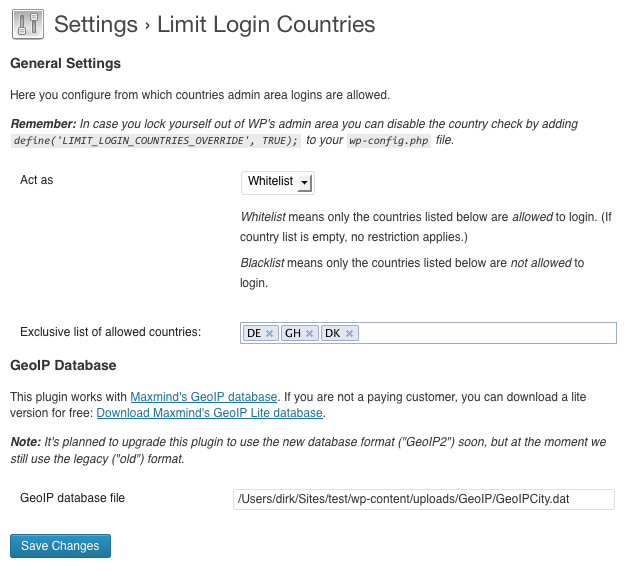
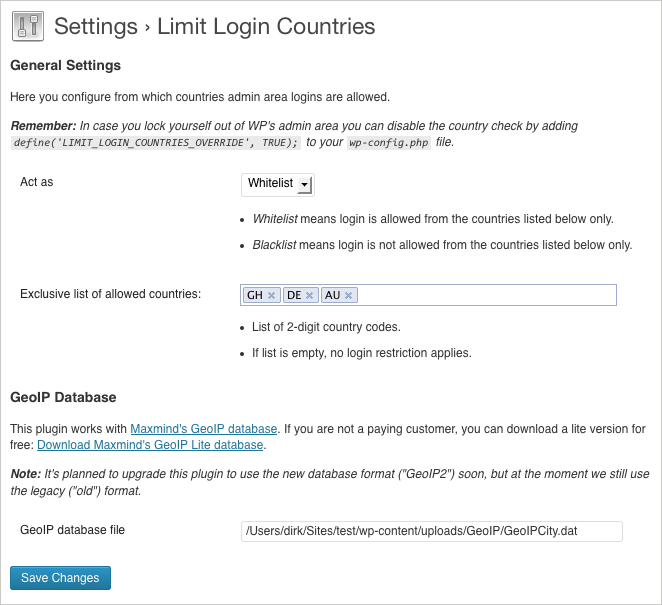
Prepare for release 0.6. * Change version number * Update readme to reflect latest changes * Update screenshot

diff --git a/limit-login-countries.php b/limit-login-countries.php
@@ -4,7 +4,7 @@ Plugin Name: Limit Login Countries
 Plugin URI: http://wordpress.org/extend/plugins/limit-login-countries/
 GitHub Plugin URI: https://github.com/wedi/limit-login-countries/
 Description: This plugin gives you the ability to limit WordPress admin logins based on the country the visitor's IP address is located in.
-Version: 0.5
+Version: 0.6
 Text Domain: limit-login-countries
 Author: Dirk Weise
 Author URI: http://dirk-weise.de/

diff --git a/README.md b/README.md
@@ -3,7 +3,7 @@
 **Tags:** login, security
 **Requires at least:** 3.5.0
 **Tested up to:** 3.6.1
-**Stable tag:** 0.5
+**Stable tag:** 0.6
 **License:** GPLv2 or any later version
 **License URI:** http://www.gnu.org/licenses/gpl-2.0.html
 
@@ -45,9 +45,13 @@ No worries! Just add `define('LIMIT_LOGIN_COUNTRIES_OVERRIDE', TRUE);` to your `
 
 ## Changelog ##
 
+### Version 0.6 ###
+* Public release in WordPress plugin directory.
+* Even more cleanup.
+
 ### Version 0.5 ###
-* readme.txt added
-* and more cleanup before making the plugin public
+* readme.txt added.
+* and more cleanup before making the plugin public.
 
 ### Version 0.4 ###
 * Fancy JavaScript additions to options page.
